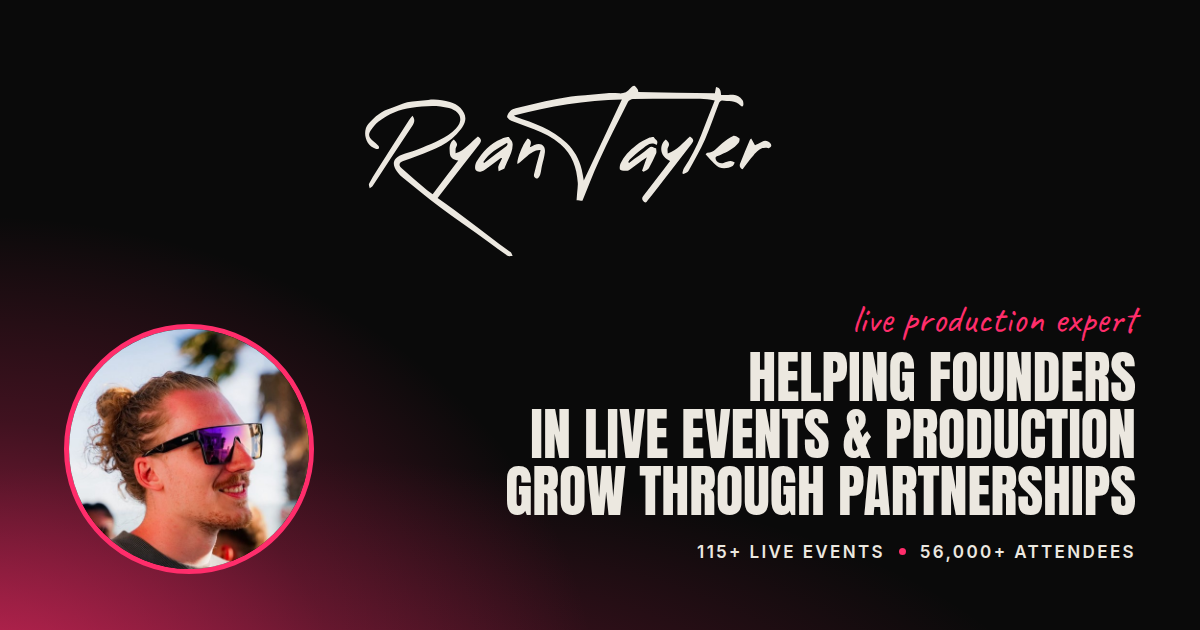
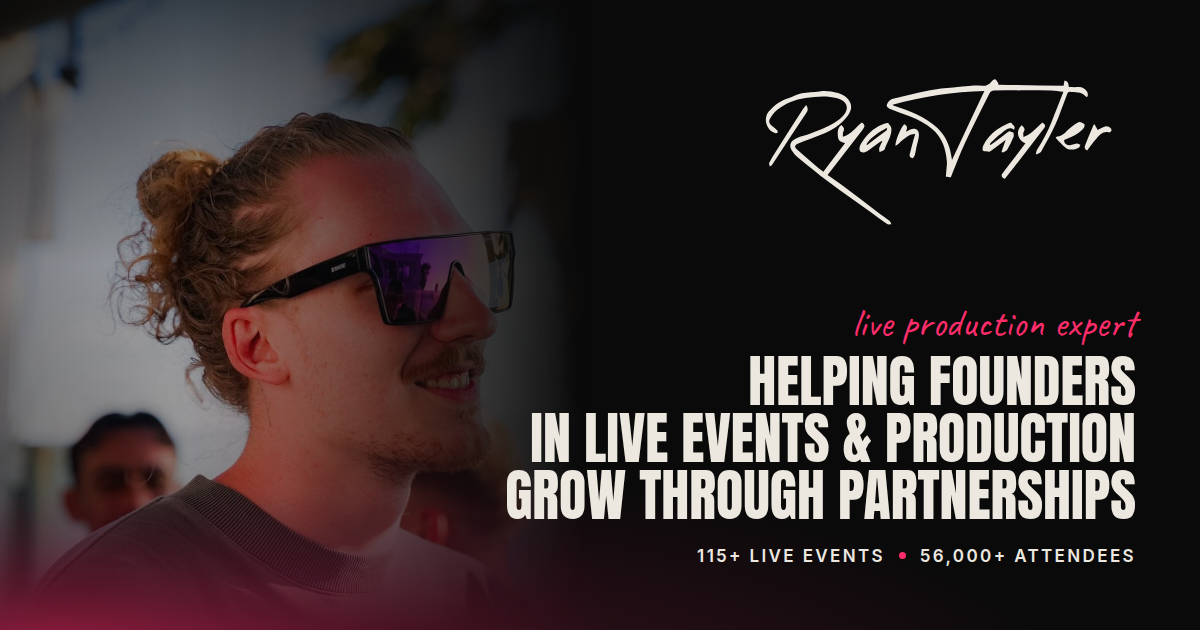
Drop the round crop on Ryan's card, dissolve the portrait instead
His call, and he is right. A circular portrait is a LinkedIn requirement,
not a design decision, and copying it onto a surface that imposes no such
rule was following a platform constraint for its own sake.

His portrait now holds the left of the frame and dissolves into the
ground on two axes, which is the move his page hero already makes, so the
card and the page finally read as one thing. Signature, kicker, headline
and record all move right onto clean dark.

The background behind his head is blown out, so the portrait takes the
same scrim as the page hero, applied inside the masked element so it
dissolves with the photo rather than ending on a line.

Re-measured against pixels: signature ground at luminance 0.003, pink
kicker 5.51:1, record 15.67, headline 11.27 where it crosses the softest
part of the dissolve.

ryan-avatar.jpg goes, since the card reads the full resolution hero and
positions the frame rather than using a pre cut square.

Claude-Session: https://claude.ai/code/session_01DjfMPENav1QLkD66DkX8kr

diff --git a/tools-og/card.html b/tools-og/card.html
@@ -36,16 +36,29 @@
   .r{position:absolute;inset:0}
   .r__bloom{position:absolute;inset:0;z-index:0;
      background:
-       radial-gradient(72% 108% at -2% 112%,rgba(255,45,107,.72),rgba(255,45,107,.22) 42%,rgba(255,45,107,0) 72%),
-       radial-gradient(90% 60% at 20% 118%,rgba(255,45,107,.34),rgba(255,45,107,0) 76%);}
-  .r__sig{position:absolute;left:330px;top:56px;width:470px;color:#ECE8E0;z-index:2}
-  .r__sig svg{width:100%;height:auto;display:block}
-  .r__photo{position:absolute;left:64px;bottom:56px;width:250px;height:250px;z-index:3;
-     border-radius:999px;overflow:hidden;border:5px solid #FF2D6B;background:#111}
+       radial-gradient(64% 96% at 4% 108%,rgba(255,45,107,.50),rgba(255,45,107,.14) 46%,rgba(255,45,107,0) 74%),
+       radial-gradient(80% 54% at 30% 116%,rgba(255,45,107,.22),rgba(255,45,107,0) 78%);}
+  /* the portrait holds the left and dissolves into the ground on two axes, the same
+     move the hero on his page makes. No circle. That was a LinkedIn constraint, not
+     a design decision, and it does not belong on a surface that has no such rule. */
+  .r__photo{position:absolute;left:0;top:0;bottom:0;width:52%;z-index:1;
+     --m:linear-gradient(to right,#000 0,#000 30%,transparent 94%),
+         linear-gradient(to top,transparent 0,#000 22%);
+     -webkit-mask-image:var(--m);mask-image:var(--m);
+     -webkit-mask-composite:source-in;mask-composite:intersect}
   .r__photo img{width:100%;height:100%;object-fit:cover;display:block;
-     object-position:54% 34%;transform:scale(1.04)}
-  .r__right{position:absolute;right:64px;bottom:64px;z-index:2;text-align:right;
-     display:flex;flex-direction:column;align-items:flex-end;gap:10px;max-width:700px}
+     object-position:58% 30%;opacity:.88}
+  /* the background behind his head is blown out, and left raw it fights the dark
+     card. Same scrim move the hero on his page makes. Inside the masked element,
+     so the scrim dissolves with the photo instead of ending on a line. */
+  .r__photo::after{content:"";position:absolute;inset:0;
+     background:
+       linear-gradient(to bottom,rgba(10,10,10,.62) 0,rgba(10,10,10,.10) 42%,rgba(10,10,10,.34) 100%),
+       linear-gradient(to right,rgba(10,10,10,.34),rgba(10,10,10,0) 48%)}
+  .r__sig{position:absolute;right:64px;top:54px;width:400px;color:#ECE8E0;z-index:2}
+  .r__sig svg{width:100%;height:auto;display:block}
+  .r__right{position:absolute;right:64px;bottom:60px;z-index:2;text-align:right;
+     display:flex;flex-direction:column;align-items:flex-end;gap:10px;max-width:660px}
   .r__hand{font-family:'Caveat',cursive;font-size:40px;line-height:1;color:#FF2D6B;margin:0}
   .r__head{font-family:'Anton',sans-serif;font-weight:400;text-transform:uppercase;
      font-size:56px;line-height:1.02;letter-spacing:0;color:#ECE8E0;margin:0}
@@ -73,7 +86,7 @@
   <path d="M239.68,138.14c-.65-7.2,8.02-27.88,13.23-32.48,5.41,2.44,4.48,6.28,2.61,11.09,1.94-.99,3.85-2.03,5.81-2.95,7.94-3.73,14.38.27,13.54,9-.59,6.14-2.65,12.12-3.95,18.2-.75,3.5-1.01,7.14-2.07,10.53-.61,1.95-2.37,4.95-3.67,4.98-2.74.06-5.02-2.21-4.25-5.41,1.87-7.78,4.04-15.5,6.12-23.23.62-2.29,1.35-4.55,2.22-7.48-7.63-.43-12.1,4.1-16.94,7.4-3.26,2.22-5.92,5.28-8.93,7.88-1.02.89-2.27,1.52-3.71,2.46Z"/>
   <path d="M527.69,144.84c-3.08-1.21-4.62-3.9-3.22-7.44,4.02-10.2,8.33-20.3,12.56-30.42.17-.41.72-.66,1.64-1.47,1.58,2.81,3.06,5.46,4.8,8.55,2.45-1.21,5.76-2.78,9-4.46,4.33-2.24,7.89-.88,10.89,2.39.71.77,1.24,2.65.79,3.33-.77,1.18-2.61,2.78-3.57,2.53-8.9-2.31-13.91,3.76-18.84,8.97-5.04,5.34-9.12,11.58-14.06,18.01Z"/>
 </svg></div>
-    <div class="r__photo"><img src="/home/user/Headliner-Group-Website/assets/img/ryan-avatar.jpg" alt=""></div>
+    <div class="r__photo"><img src="/home/user/Headliner-Group-Website/assets/img/ryan-hero.jpg" alt=""></div>
     <div class="r__right">
       <p class="r__hand">live production expert</p>
       <h2 class="r__head">Helping founders<br>in live events &amp; production<br>grow through partnerships</h2>

diff --git a/README.md b/README.md
@@ -238,9 +238,9 @@ Every page carries a canonical, the Open Graph set and `twitter:card`, with the 
 
 The five cards in `assets/img/og-*.png` are 1200 by 630 and they are **generated, not drawn**. `tools-og/card.html` links the real stylesheet and uses the real `.hl-stage` markup, so the lockup on the card is the header lockup rather than a redrawing of it, beam and taper included. Re-run the generator whenever a page headline changes.
 
-`ryan.html` gets a different card on purpose, built to the anatomy of his LinkedIn banner. Signature as the mark, portrait bottom left in a pink ringed circle, Caveat kicker, Anton headline right aligned over the record. His page exists to read as a different business and the card has to do the same job.
+`ryan.html` gets a different card on purpose, built to the anatomy of his LinkedIn banner. Signature as the mark, Caveat kicker, Anton headline and the record, all right aligned, with his portrait holding the left of the frame and dissolving into the ground on two axes, the same move his page hero makes. No round crop. That is a LinkedIn requirement rather than a design decision and it does not belong on a surface with no such rule. His page exists to read as a different business and the card has to do the same job.
 
-Two of his brand rules constrain it and both were checked against pixels rather than tokens. The pink bloom stops short of the signature, since his system keeps that mark on clean ground and never on a colour fill, and the ground under it measures luminance 0.003. The kicker is the single handwritten moment. The pink sits at 5.51:1, everything else above 15:1.
+Two of his brand rules constrain it and both were checked against pixels rather than tokens. The pink bloom stops short of the signature, since his system keeps that mark on clean ground and never on a colour fill, and the ground under it measures luminance 0.003. The kicker is the single handwritten moment. Pink at 5.51:1, the record at 15.67, and the headline at 11.27 where it crosses the softest part of the dissolve.
 
 **The domain in every canonical and `og:url` is a placeholder.** Until `headlinergroup.com.au` is swapped for the real one, every shared link points at nothing.
 

diff --git a/CONTENT-DECISIONS.md b/CONTENT-DECISIONS.md
@@ -350,17 +350,23 @@ stylesheet rather than redrawn, so the lockup on the card is the header lockup, 
 taper and GROUP alignment included. Ryan's call.
 
 His card is built to the anatomy of **his LinkedIn banner**, at his request. Signature as
-the mark, portrait bottom left in a pink ringed circle, the Caveat kicker, the Anton
-headline over three lines and the record underneath, both right aligned. Pink bloom out of
-the bottom left corner.
+the mark, the Caveat kicker, the Anton headline over three lines and the record underneath,
+all right aligned, with the pink bloom out of the bottom left corner.
+
+**The circle is gone.** A round portrait is a LinkedIn requirement, not a design decision,
+and it has no business on a surface that imposes no such rule. His portrait instead holds
+the left of the frame and dissolves into the ground on two axes, which is the move his page
+hero already makes. Ryan's call, and he is right.
 
 Two of his own rules shaped it. The bloom stops well short of the signature, because his
 system keeps the mark on clean ground and never on a colour fill. The kicker is the one
 handwritten moment on the card. Measured against the pixels rather than the tokens, the
-signature's ground sits at luminance **0.003**, the pink kicker at **5.51:1** and
-everything else above 15:1.
+signature's ground sits at luminance **0.003**, the pink kicker at **5.51:1**, the record
+at 15.67 and the headline at 11.27 where it passes over the softest part of the dissolve.
 
-The portrait is `assets/img/ryan-avatar.jpg`, a square cut from the hero shot.
+The background behind his head is blown out, so the portrait carries the same scrim
+treatment as the hero on his page, applied inside the masked element so it dissolves with
+the photo instead of ending on a line.
 
 Regenerate them with `tools-og/gen.js` whenever a page headline changes.
 
